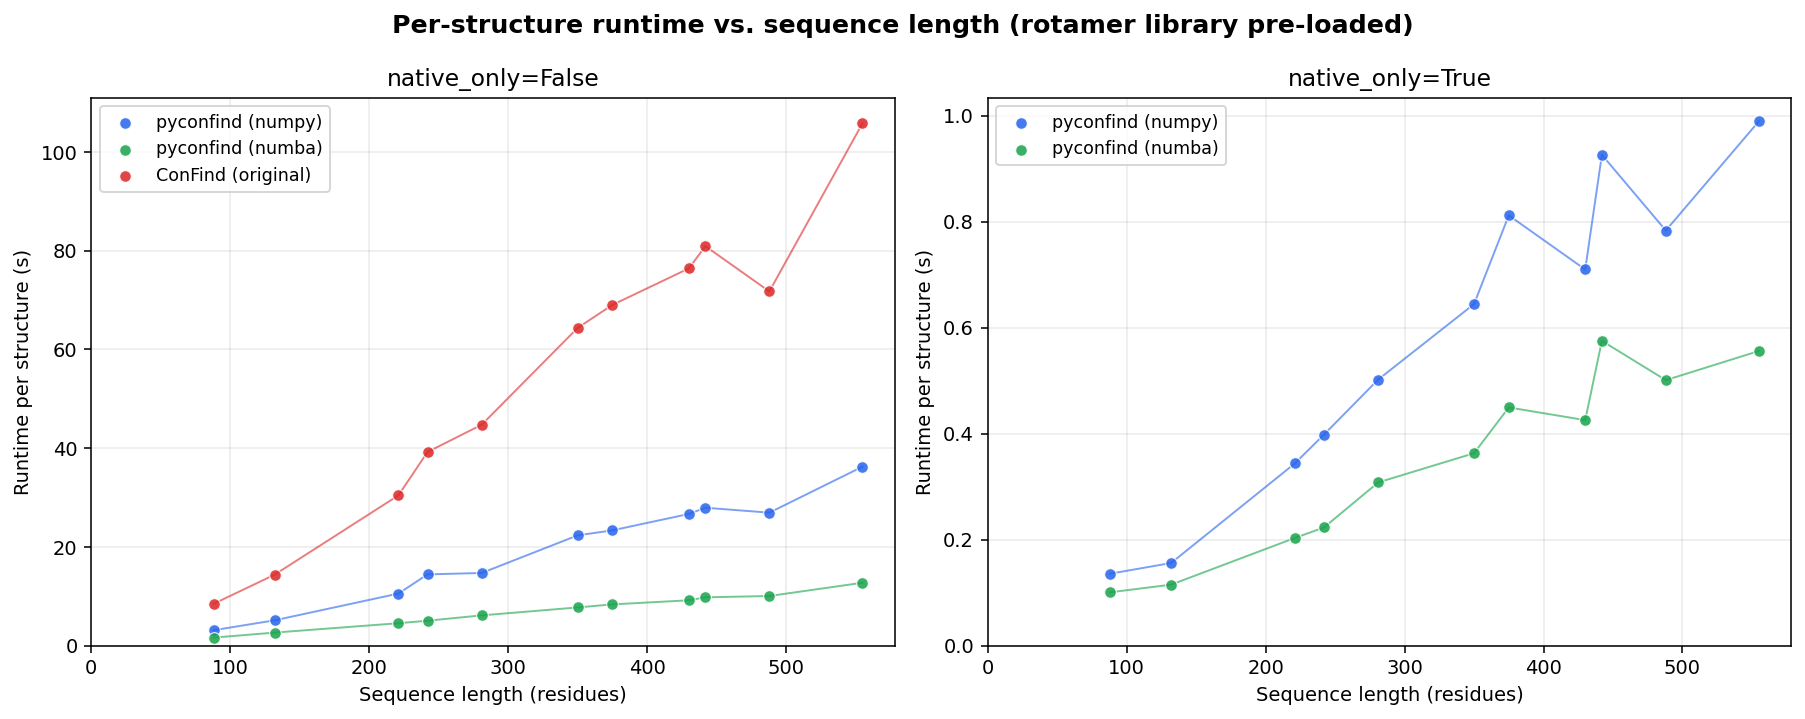
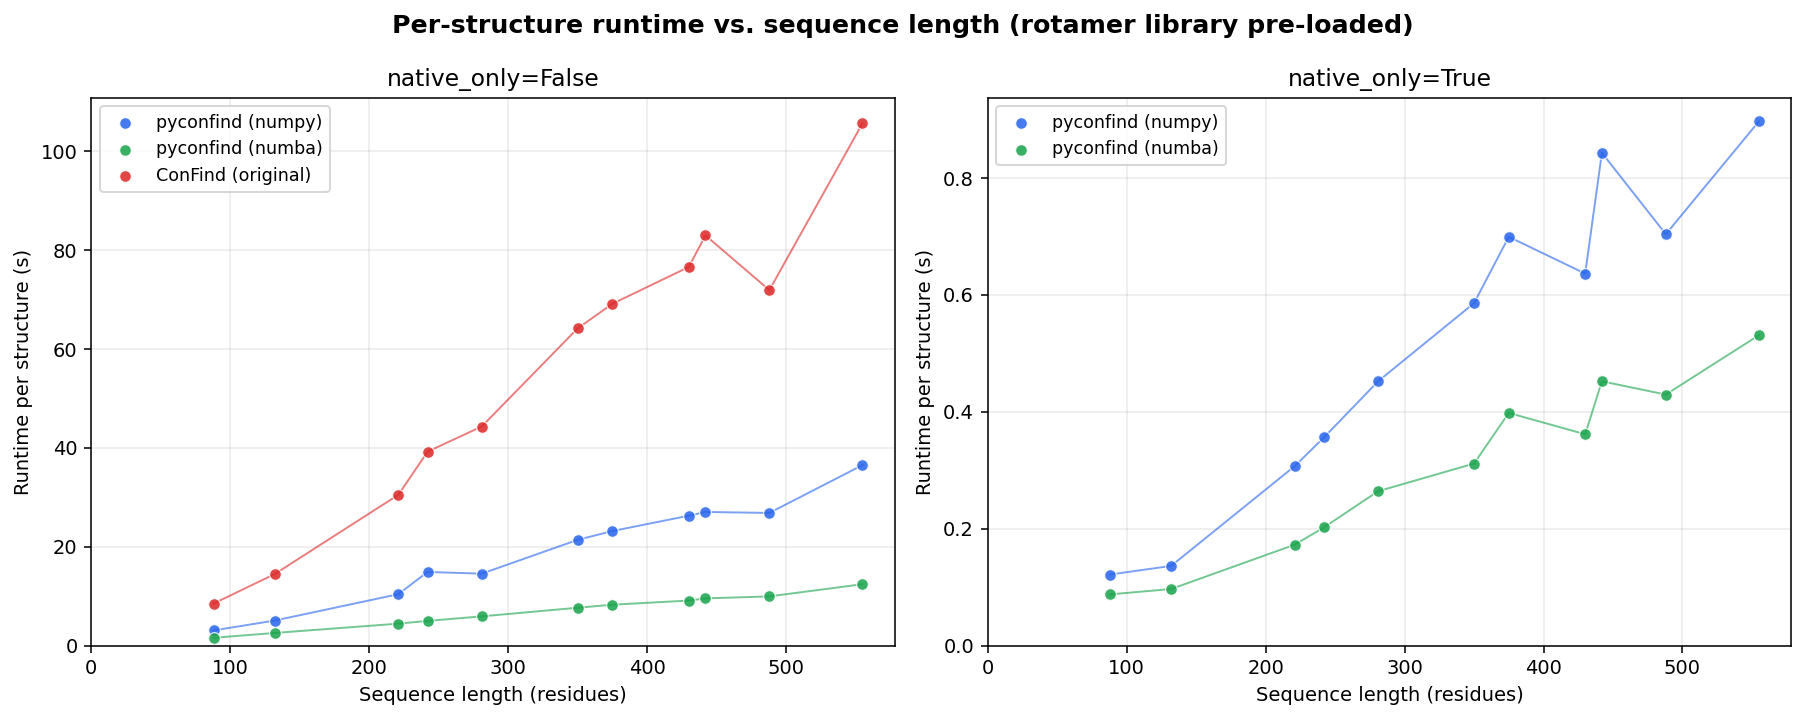
Re-run benchmark with the phi/psi numba kernel; refresh plot + docs
The phi/psi/omega kernel landed in b5ba233 — re-ran scripts/benchmark_v2.py
on the same 11-structure set to refresh the numbers throughout the docs.

Headline changes:
* native_only numba is now <0.55 s for every structure in the set (largest
  555 residues), down from <1.0 s before. Median native-only-vs-full speedup
  bumped 21x -> 23x.
* Full-mode numba vs C++ ticked up slightly: median 7.8x (unchanged),
  range 5.4-8.7x (was 5.2-8.3x).

Updates docs/timing_vs_length.png, docs/timing_results.json, the per-PDB
table in docs/benchmark.md, the README headline numbers, and adds a short
paragraph in docs/benchmark.md noting the new dihedral kernel and its
byte-equivalence guarantee.

diff --git a/docs/benchmark.md b/docs/benchmark.md
@@ -22,24 +22,24 @@ counted twice.
 
 | Structure    | Residues | numpy backend | numba backend | C++ (analysis only) | numba vs C++ |
 |--------------|---------:|--------------:|--------------:|--------------------:|-------------:|
-| AF-A1L190-F1 |       88 |      3.11 s   |      1.62 s   |              8.46 s |       5.2×   |
-| AF-A6NNB3-F1 |      132 |      5.12 s   |      2.64 s   |             14.37 s |       5.4×   |
-| AF-A6NI61-F1 |      221 |     10.54 s   |      4.54 s   |             30.42 s |       6.7×   |
-| 1AB9         |      242 |     14.42 s   |      5.04 s   |             39.21 s |       7.8×   |
-| AF-A1L3X0-F1 |      281 |     14.71 s   |      6.13 s   |             44.74 s |       7.3×   |
-| 1C08         |      350 |     22.32 s   |      7.73 s   |             64.34 s |       8.3×   |
-| 1B0R         |      375 |     23.34 s   |      8.35 s   |             69.00 s |       8.3×   |
-| 1BWU         |      430 |     26.66 s   |      9.18 s   |             76.38 s |       8.3×   |
-| 1AVG         |      442 |     27.92 s   |      9.78 s   |             80.89 s |       8.3×   |
-| 1C04         |      488 |     26.93 s   |     10.05 s   |             71.73 s |       7.1×   |
-| 1BQL         |      555 |     36.23 s   |     12.73 s   |            105.77 s |       8.3×   |
+| AF-A1L190-F1 |       88 |      3.13 s   |      1.57 s   |              8.51 s |       5.4×   |
+| AF-A6NNB3-F1 |      132 |      5.11 s   |      2.60 s   |             14.48 s |       5.6×   |
+| AF-A6NI61-F1 |      221 |     10.38 s   |      4.39 s   |             30.46 s |       6.9×   |
+| 1AB9         |      242 |     14.92 s   |      5.05 s   |             39.22 s |       7.8×   |
+| AF-A1L3X0-F1 |      281 |     14.49 s   |      5.86 s   |             44.32 s |       7.6×   |
+| 1C08         |      350 |     21.39 s   |      7.66 s   |             64.05 s |       8.4×   |
+| 1B0R         |      375 |     23.20 s   |      8.27 s   |             69.10 s |       8.4×   |
+| 1BWU         |      430 |     26.33 s   |      9.05 s   |             76.46 s |       8.5×   |
+| 1AVG         |      442 |     27.03 s   |      9.50 s   |             82.95 s |       8.7×   |
+| 1C04         |      488 |     26.84 s   |     10.05 s   |             71.93 s |       7.2×   |
+| 1BQL         |      555 |     36.51 s   |     12.43 s   |            105.55 s |       8.5×   |
 
 Median speedups (numba backend, library pre-loaded everywhere):
 
 * **numba vs C++**: 7.8×
 * **numba vs numpy**: 2.8×
-* **`native_only=True`** vs full mode (numba): ~21× faster again — sub-second
-  for everything in this set.
+* **`native_only=True`** vs full mode (numba): ~23× faster again — every
+  structure in this set finishes in **under 0.55 s**, smaller ones in 0.1 s.
 
 Raw data: [docs/timing_results.json](timing_results.json).
 
@@ -62,6 +62,15 @@ The **Numba backend** (`contacts_numba.py`) then replaces the contact
 computation with a JIT-compiled, multi-threaded kernel — ~4.6× faster than the
 already-optimized Python contact step (470-residue structure: 10.9 s → 2.4 s),
 making rotamer building the new dominant cost.
+
+A second numba kernel (`structure._dihedrals_kernel`) batches the
+phi/psi/omega computation across all positions, replacing what used to be a
+per-position `np.cross`/`np.dot` loop. This matters most for `native_only=True`
+runs, where rotamer building is cheap and the dihedral pass would otherwise be
+a sizable fraction of the call: 5TRU (542 residues, `native_only=True`) drops
+from ~0.71 s to ~0.48 s per call. The dihedral arithmetic is hand-scalarized
+over the length-3 vectors so it is bit-equivalent to the original — the
+byte-identity goldens are the canary.
 
 ### Why rotamer building is not (yet) Numba-accelerated
 

diff --git a/README.md b/README.md
@@ -28,9 +28,10 @@ contact-degree backends (both byte-identical to the reference):
   that is ~2-3× faster again.
 
 With the Numba backend and the rotamer library pre-loaded, per-structure
-analysis is **~5-8× faster** than the C++ binary (median ~7.8× over the
-benchmark set), and **`native_only=True`** is another ~20× faster again —
-sub-second for hundreds of residues.
+analysis is **~5-9× faster** than the C++ binary (median ~7.8× over the
+benchmark set), and **`native_only=True`** is another ~23× faster again —
+under 0.55 s for everything in the benchmark set (largest is 555 residues),
+and ~0.1 s for small structures.
 
 ![runtime vs sequence length](docs/timing_vs_length.png)
 
